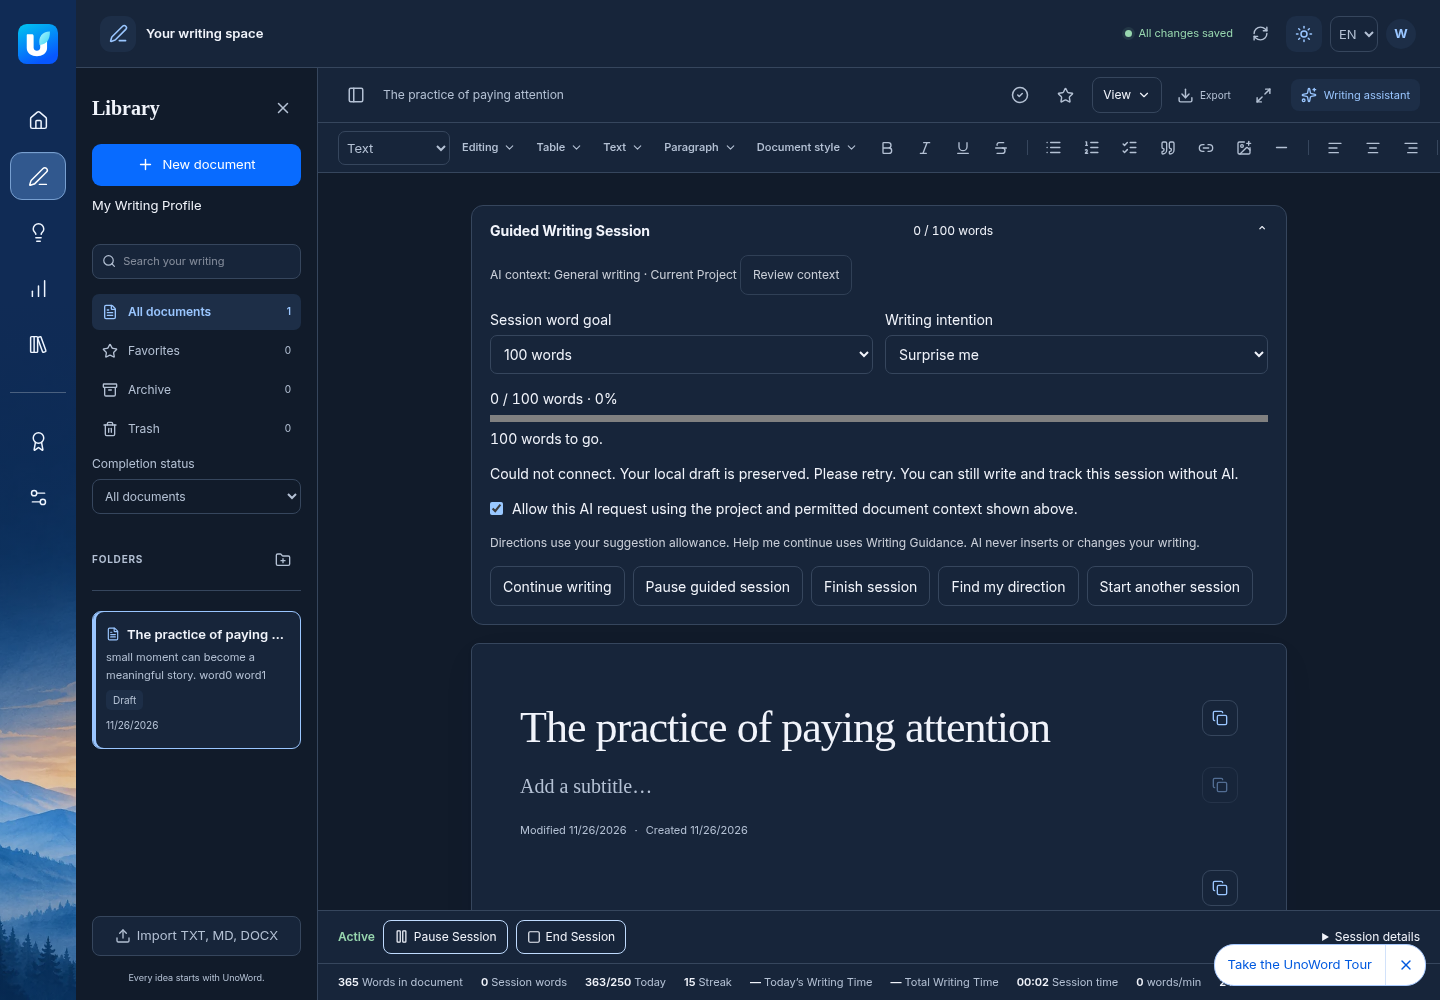
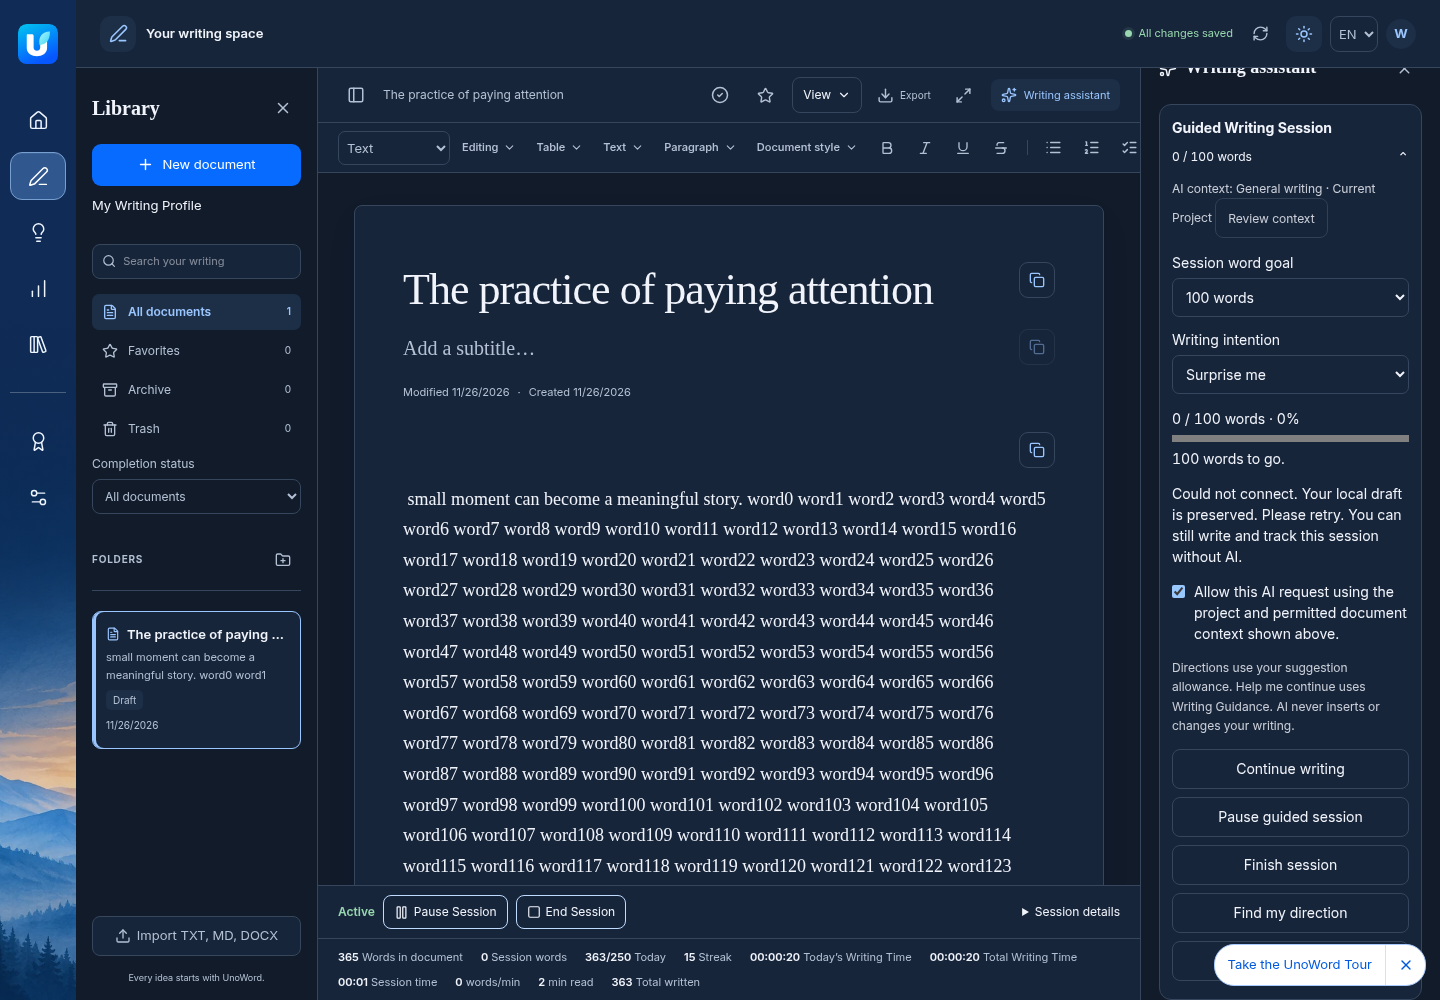
Record assistant placement release and live verification

Changed region(s): [[0.2188, 0.062, 1.0, 1.0], [0.6562, 0.217, 0.6875, 0.248], [0.5625, 0.093, 0.5938, 0.124]]

diff --git a/docs/review/guided-writing-sessions/report.html b/docs/review/guided-writing-sessions/report.html
@@ -1,2 +1,2 @@
-<!doctype html><meta charset="utf-8"><title>UnoWord Guided Writing Sessions</title><style>body{font:16px/1.65 system-ui;color:#102b55;background:#f6f8fc;max-width:900px;margin:40px auto;padding:24px}section{background:white;padding:24px;margin:18px 0;border-radius:12px}h1{font-size:30px}h2{font-size:22px}code{overflow-wrap:anywhere}</style><h1>Guided Writing Sessions — implementation report</h1><section><h2>Status</h2><p>Deployed to production; public and deployed-editor read-only checks passed</p></section><section><h2>Implemented</h2><ul><li>Pro web editor panel, collapsed by default; desktop, tablet and mobile</li><li>Presets 100, 250, 500, 750, 1000, 1500 and validated custom 1–10000</li><li>Last selected goal and owner/document-scoped plan recovery on this browser</li><li>Five intentions, authorized project/draft/profile context, explicit request consent</li><li>One coaching direction with 1–5 validated allocations summing exactly to the remaining goal</li><li>Manual start, continue, pause, typing auto-resume, finish early, start another, gentle completion</li><li>Session typed words, remaining words, percentage and minimal progress</li><li>Explicit Help me continue with original direction and at most 4000 characters of permitted current-session typed text</li><li>Idempotent retries, including reload recovery; stale context/document responses discarded</li><li>Existing Focus Mode/editor instance, autosave and activity ledger retained</li></ul></section><section><h2>Architecture</h2><p><strong>editor: </strong>Existing Tiptap with SessionCredit provenance marks. No generated text insertion or editor replacement.</p><p><strong>progress: </strong>Reads canonical activity typed_words; no second activity ledger or incremental credit counter. Existing activity API records sessions once. Daily and project goals unchanged.</p><p><strong>persistence: </strong>LocalStorage stores versioned owner/document-scoped guidance plan and last goal. Existing IndexedDB/autosave persist document and canonical activity. Retry cache contains only SHA-256 fingerprint and UUID, no draft text.</p><p><strong>ai: </strong>Existing /workspace/assistant, context resolver, provider, coaching policy, bounded validation retry, and AIRequest quota/idempotency transaction. No additional polling or typing-triggered AI.</p><p><strong>subscription: </strong>Existing backend require_ai_user, expected owner, document ownership, explicit consent and project scope guards. session_direction uses suggestions; session_continue uses Writing Guidance. No quota/pricing changes.</p><p><strong>database_changes: </strong>None. Existing Supabase project, RLS, activity and document persistence retained.</p></section><section><h2>Validation</h2><p><strong>backend: </strong>95 selected tests passed: strict goals, goal-dependent scope, exact remaining allocations, malformed-output retry, context exclusion, quota category and Free/consent denial plus existing workspace/context/quota regressions.</p><p><strong>frontend: </strong>4 shared foundation unit tests passed; TypeScript and production build passed; targeted oxlint passed.</p><p><strong>browser: </strong>Built real editor operated with isolated HTTP fixtures and real Tiptap/IndexedDB. Guided flow covers typing, original-content deletion, pasted text, undo/redo, pause/typing resume, early finish, refresh, next session, overshoot, AI failure fallback/retry recovery, Focus identity, empty draft, document switching, all intentions, goal recall, 320/390/768/1440px, dark mode, Spanish and reduced motion.</p><p><strong>regressions: </strong>Autosave navigation and AI-project/context browser regressions passed. Canonical session/completion/draft-recovery and WCAG regressions passed.</p><p><strong>privacy: </strong>Synthetic test account/content only; no production customer data or paid model calls.</p></section><section><h2>Limitations</h2><ul><li>Guidance plan/goal binding recovery is browser-local; canonical writing/activity use existing cross-device sync. A second device does not reconstruct the guided breakdown.</li><li>New interface is in the responsive web editor. Native application/extension standalone editors retain existing features; they do not receive duplicated guided-session controls in this release.</li><li>Provider request structures, coaching validation and dynamic scope verified with deterministic provider fixtures. Live paid-model personalization quality was not tested and is not claimed.</li><li>Manual sessions require the existing Pro web editor, but do not require consent or a successful AI request.</li><li>Clearing browser site data removes guidance plans, not cloud documents or historical statistics.</li></ul></section><section><h2>Rollback</h2><ul><li>Restore previous Vercel deployment dpl_8qNEfbHehjr3VbNoyasgsMzkP1pM (7c41be7748e4bef992ce1c7dc618a43f162b5ac1). No SQL rollback necessary.</li><li>Guidance cache keys are ignored by the previous app; existing document schema and activity remain compatible.</li></ul></section><section><h2>Future</h2><ul><li>Consider optional server-stored guidance plans for cross-device recovery with explicit retention rules.</li><li>Evaluate live coaching output quality on consenting dedicated demo accounts across goals/genres before tuning prompts.</li><li>Consider native-client entry points after matching their session-credit and packaging tests.</li></ul></section>
-<section><h2>Changed files</h2><ul><li><code>backend/lib/workspace_ai.py</code></li><li><code>backend/routers/workspace.py</code></li><li><code>backend/tests/test_workspace.py</code></li><li><code>backend/tests/test_workspace_ai.py</code></li><li><code>frontend/src/lib/writing.ts</code></li><li><code>frontend/src/pages/WritingEditor.tsx</code></li><li><code>tests/writing-workspace.browser.cjs</code></li><li><code>backend/lib/guided_writing.py</code></li><li><code>backend/models/guided_writing.py</code></li><li><code>backend/tests/test_guided_writing.py</code></li><li><code>frontend/src/components/GuidedWritingSession.tsx</code></li><li><code>frontend/src/styles/guided-writing.css</code></li><li><code>frontend/tests/guided-writing.test.ts</code></li><li><code>shared/guided-writing.ts</code></li><li><code>tests/guided-writing.browser.cjs</code></li><li><code>tests/helpers/guided-session-flow.cjs</code></li></ul></section><section><h2>Actual editor captures</h2><p>Built application with isolated synthetic data, showing recovery from an AI outage. No personal writing.</p><p>Desktop</p><img style="width:100%;height:auto" src="previews/desktop.png" alt="Guided writing desktop presentation"><p>Mobile</p><img style="width:100%;height:auto" src="previews/mobile.png" alt="Guided writing mobile presentation"><p>Dark</p><img style="width:100%;height:auto" src="previews/dark.png" alt="Guided writing dark presentation"></section><section><h2>Production release</h2><p>Live at <a href="https://unoword.app">unoword.app</a>. Vercel READY: <code>dpl_G8o4weYHTKKLHuWk7eKRK9RR9spE</code>; feature commit <code>ef17e153e995b8333ddfe3ecfb1451894ccf2d56</code>.</p><p>Public readiness, Google auth, signed-out protection, editor/library/settings, and unchanged extension checksum passed. The deployed editor passed read-only panel, goal and consent checks with intercepted account APIs, zero unexpected mutations, zero hidden idle index reads and zero console errors.</p></section>
+<!doctype html><meta charset="utf-8"><title>UnoWord Guided Writing Sessions</title><style>body{font:16px/1.65 system-ui;color:#102b55;background:#f6f8fc;max-width:900px;margin:40px auto;padding:24px}section{background:white;padding:24px;margin:18px 0;border-radius:12px}h1{font-size:30px}h2{font-size:22px}code{overflow-wrap:anywhere}</style><h1>Guided Writing Sessions — implementation report</h1><section><h2>Status</h2><p>Deployed to production; public and deployed-editor read-only checks passed</p></section><section><h2>Implemented</h2><ul><li>Pro Writing Assistant panel, collapsed by default; desktop, tablet and mobile</li><li>Presets 100, 250, 500, 750, 1000, 1500 and validated custom 1–10000</li><li>Last selected goal and owner/document-scoped plan recovery on this browser</li><li>Five intentions, authorized project/draft/profile context, explicit request consent</li><li>One coaching direction with 1–5 validated allocations summing exactly to the remaining goal</li><li>Manual start, continue, pause, typing auto-resume, finish early, start another, gentle completion</li><li>Session typed words, remaining words, percentage and minimal progress</li><li>Explicit Help me continue with original direction and at most 4000 characters of permitted current-session typed text</li><li>Idempotent retries, including reload recovery; stale context/document responses discarded</li><li>Existing Focus Mode/editor instance, autosave and activity ledger retained</li></ul></section><section><h2>Architecture</h2><p><strong>editor: </strong>Existing Tiptap with SessionCredit provenance marks. No generated text insertion or editor replacement.</p><p><strong>progress: </strong>Reads canonical activity typed_words; no second activity ledger or incremental credit counter. Existing activity API records sessions once. Daily and project goals unchanged.</p><p><strong>persistence: </strong>LocalStorage stores versioned owner/document-scoped guidance plan and last goal. Existing IndexedDB/autosave persist document and canonical activity. Retry cache contains only SHA-256 fingerprint and UUID, no draft text.</p><p><strong>ai: </strong>Existing /workspace/assistant, context resolver, provider, coaching policy, bounded validation retry, and AIRequest quota/idempotency transaction. No additional polling or typing-triggered AI.</p><p><strong>subscription: </strong>Existing backend require_ai_user, expected owner, document ownership, explicit consent and project scope guards. session_direction uses suggestions; session_continue uses Writing Guidance. No quota/pricing changes.</p><p><strong>database_changes: </strong>None. Existing Supabase project, RLS, activity and document persistence retained.</p></section><section><h2>Validation</h2><p><strong>backend: </strong>95 selected tests passed: strict goals, goal-dependent scope, exact remaining allocations, malformed-output retry, context exclusion, quota category and Free/consent denial plus existing workspace/context/quota regressions.</p><p><strong>frontend: </strong>4 shared foundation unit tests passed; TypeScript and production build passed; targeted oxlint passed.</p><p><strong>browser: </strong>Built real editor operated with isolated HTTP fixtures and real Tiptap/IndexedDB. Guided flow covers typing, original-content deletion, pasted text, undo/redo, pause/typing resume, early finish, refresh, next session, overshoot, AI failure fallback/retry recovery, Focus identity, empty draft, document switching, all intentions, goal recall, 320/390/768/1440px, dark mode, Spanish and reduced motion.</p><p><strong>regressions: </strong>Autosave navigation and AI-project/context browser regressions passed. Canonical session/completion/draft-recovery and WCAG regressions passed.</p><p><strong>privacy: </strong>Synthetic test account/content only; no production customer data or paid model calls.</p></section><section><h2>Limitations</h2><ul><li>Guidance plan/goal binding recovery is browser-local; canonical writing/activity use existing cross-device sync. A second device does not reconstruct the guided breakdown.</li><li>New interface is in the responsive web editor. Native application/extension standalone editors retain existing features; they do not receive duplicated guided-session controls in this release.</li><li>Provider request structures, coaching validation and dynamic scope verified with deterministic provider fixtures. Live paid-model personalization quality was not tested and is not claimed.</li><li>Manual sessions require the existing Pro web editor, but do not require consent or a successful AI request.</li><li>Clearing browser site data removes guidance plans, not cloud documents or historical statistics.</li></ul></section><section><h2>Rollback</h2><ul><li>Restore previous Vercel deployment dpl_8qNEfbHehjr3VbNoyasgsMzkP1pM (7c41be7748e4bef992ce1c7dc618a43f162b5ac1). No SQL rollback necessary.</li><li>Guidance cache keys are ignored by the previous app; existing document schema and activity remain compatible.</li></ul></section><section><h2>Future</h2><ul><li>Consider optional server-stored guidance plans for cross-device recovery with explicit retention rules.</li><li>Evaluate live coaching output quality on consenting dedicated demo accounts across goals/genres before tuning prompts.</li><li>Consider native-client entry points after matching their session-credit and packaging tests.</li></ul></section>
+<section><h2>Changed files</h2><ul><li><code>backend/lib/workspace_ai.py</code></li><li><code>backend/routers/workspace.py</code></li><li><code>backend/tests/test_workspace.py</code></li><li><code>backend/tests/test_workspace_ai.py</code></li><li><code>frontend/src/lib/writing.ts</code></li><li><code>frontend/src/pages/WritingEditor.tsx</code></li><li><code>tests/writing-workspace.browser.cjs</code></li><li><code>backend/lib/guided_writing.py</code></li><li><code>backend/models/guided_writing.py</code></li><li><code>backend/tests/test_guided_writing.py</code></li><li><code>frontend/src/components/GuidedWritingSession.tsx</code></li><li><code>frontend/src/styles/guided-writing.css</code></li><li><code>frontend/tests/guided-writing.test.ts</code></li><li><code>shared/guided-writing.ts</code></li><li><code>tests/guided-writing.browser.cjs</code></li><li><code>tests/helpers/guided-session-flow.cjs</code></li></ul></section><section><h2>Actual editor captures</h2><p>Built application with isolated synthetic data, showing recovery from an AI outage. No personal writing.</p><p>Desktop</p><img style="width:100%;height:auto" src="previews/desktop.png" alt="Guided writing desktop presentation"><p>Mobile</p><img style="width:100%;height:auto" src="previews/mobile.png" alt="Guided writing mobile presentation"><p>Dark</p><img style="width:100%;height:auto" src="previews/dark.png" alt="Guided writing dark presentation"></section><section><h2>Production release</h2><p>Live at <a href="https://unoword.app">unoword.app</a>. Vercel READY: <code>dpl_FDZNmwzH77dBFDwvRKKKSdrGZEDA</code>; feature commit <code>51c8512eace61833addeaa38016fae92419a2331</code>.</p><p>Public readiness, Google auth, signed-out protection, editor/library/settings, and unchanged extension checksum passed. The deployed editor passed read-only panel, goal and consent checks with intercepted account APIs, zero unexpected mutations, zero hidden idle index reads and zero console errors.</p></section><section><h2>Placement correction</h2><p>Guided Writing Session now sits inside Writing Assistant, above Quick Prompt. No guided controls remain on the document canvas. On mobile, Start writing closes the assistant and focuses the editor; session progress survives closing and reopening the panel.</p><p>The full guided session and accessibility flow passed after relocation, as did a dedicated mobile keyboard-handoff and progress-recovery check.</p></section>
